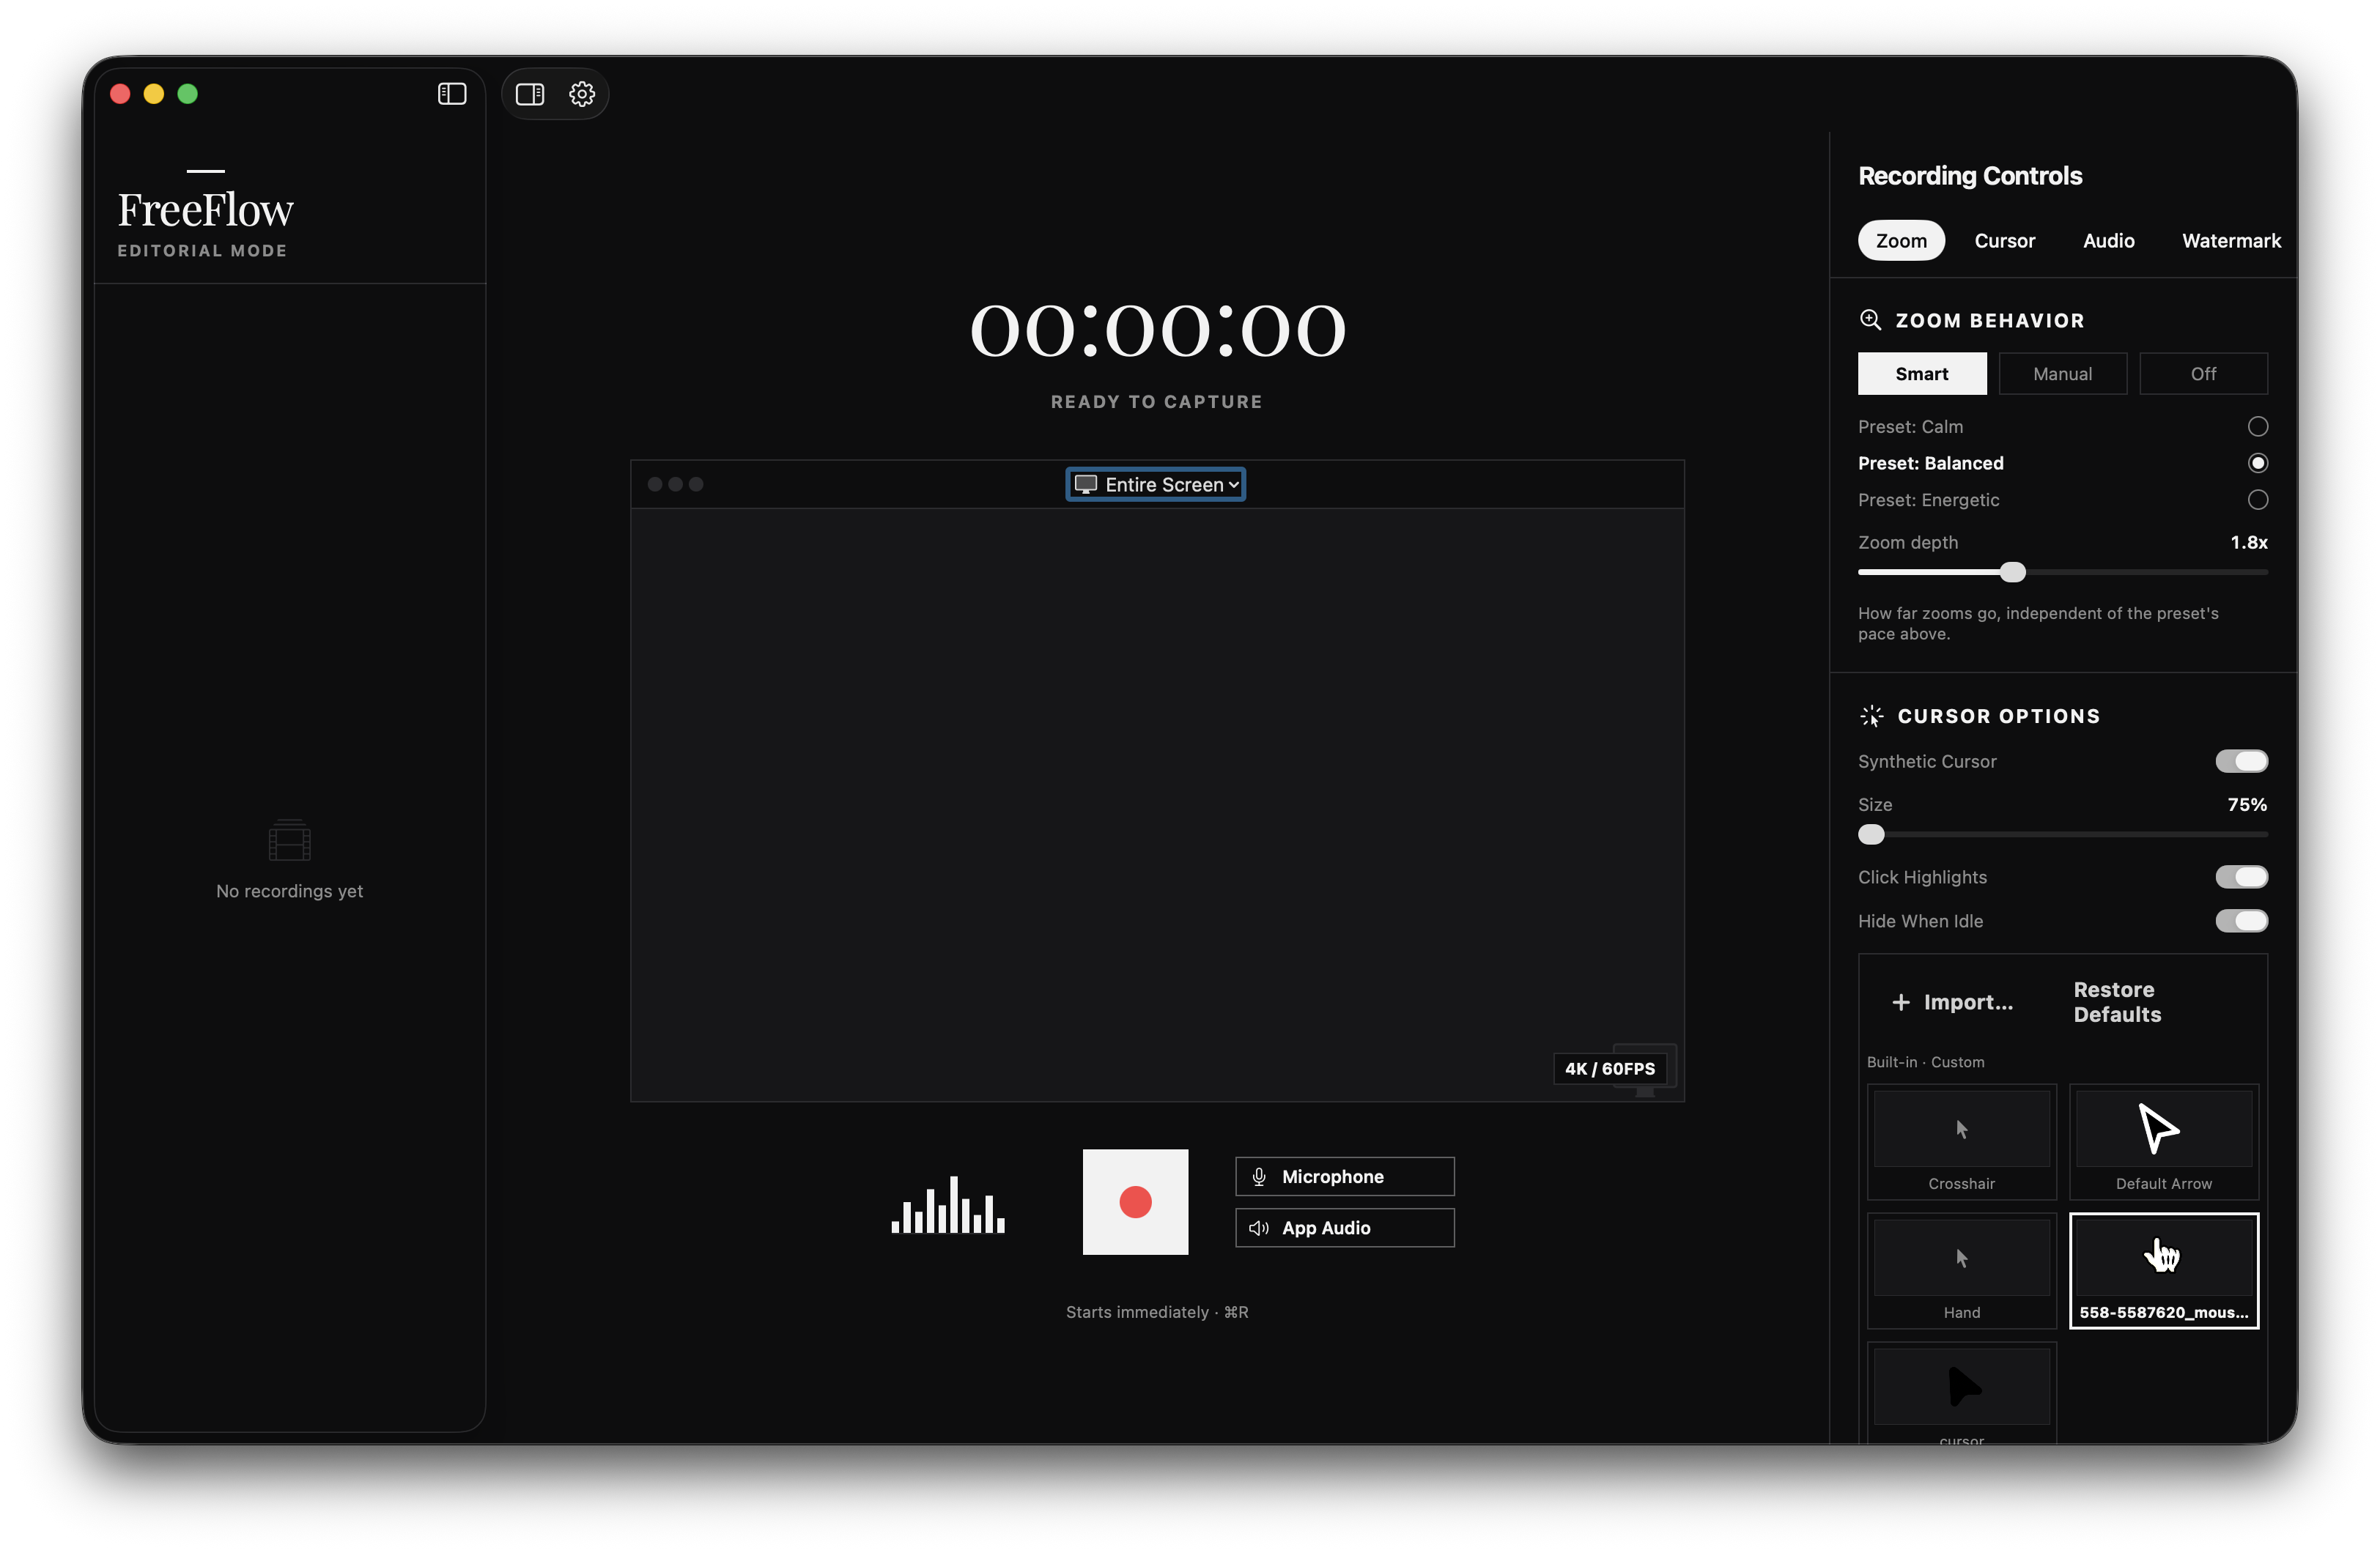
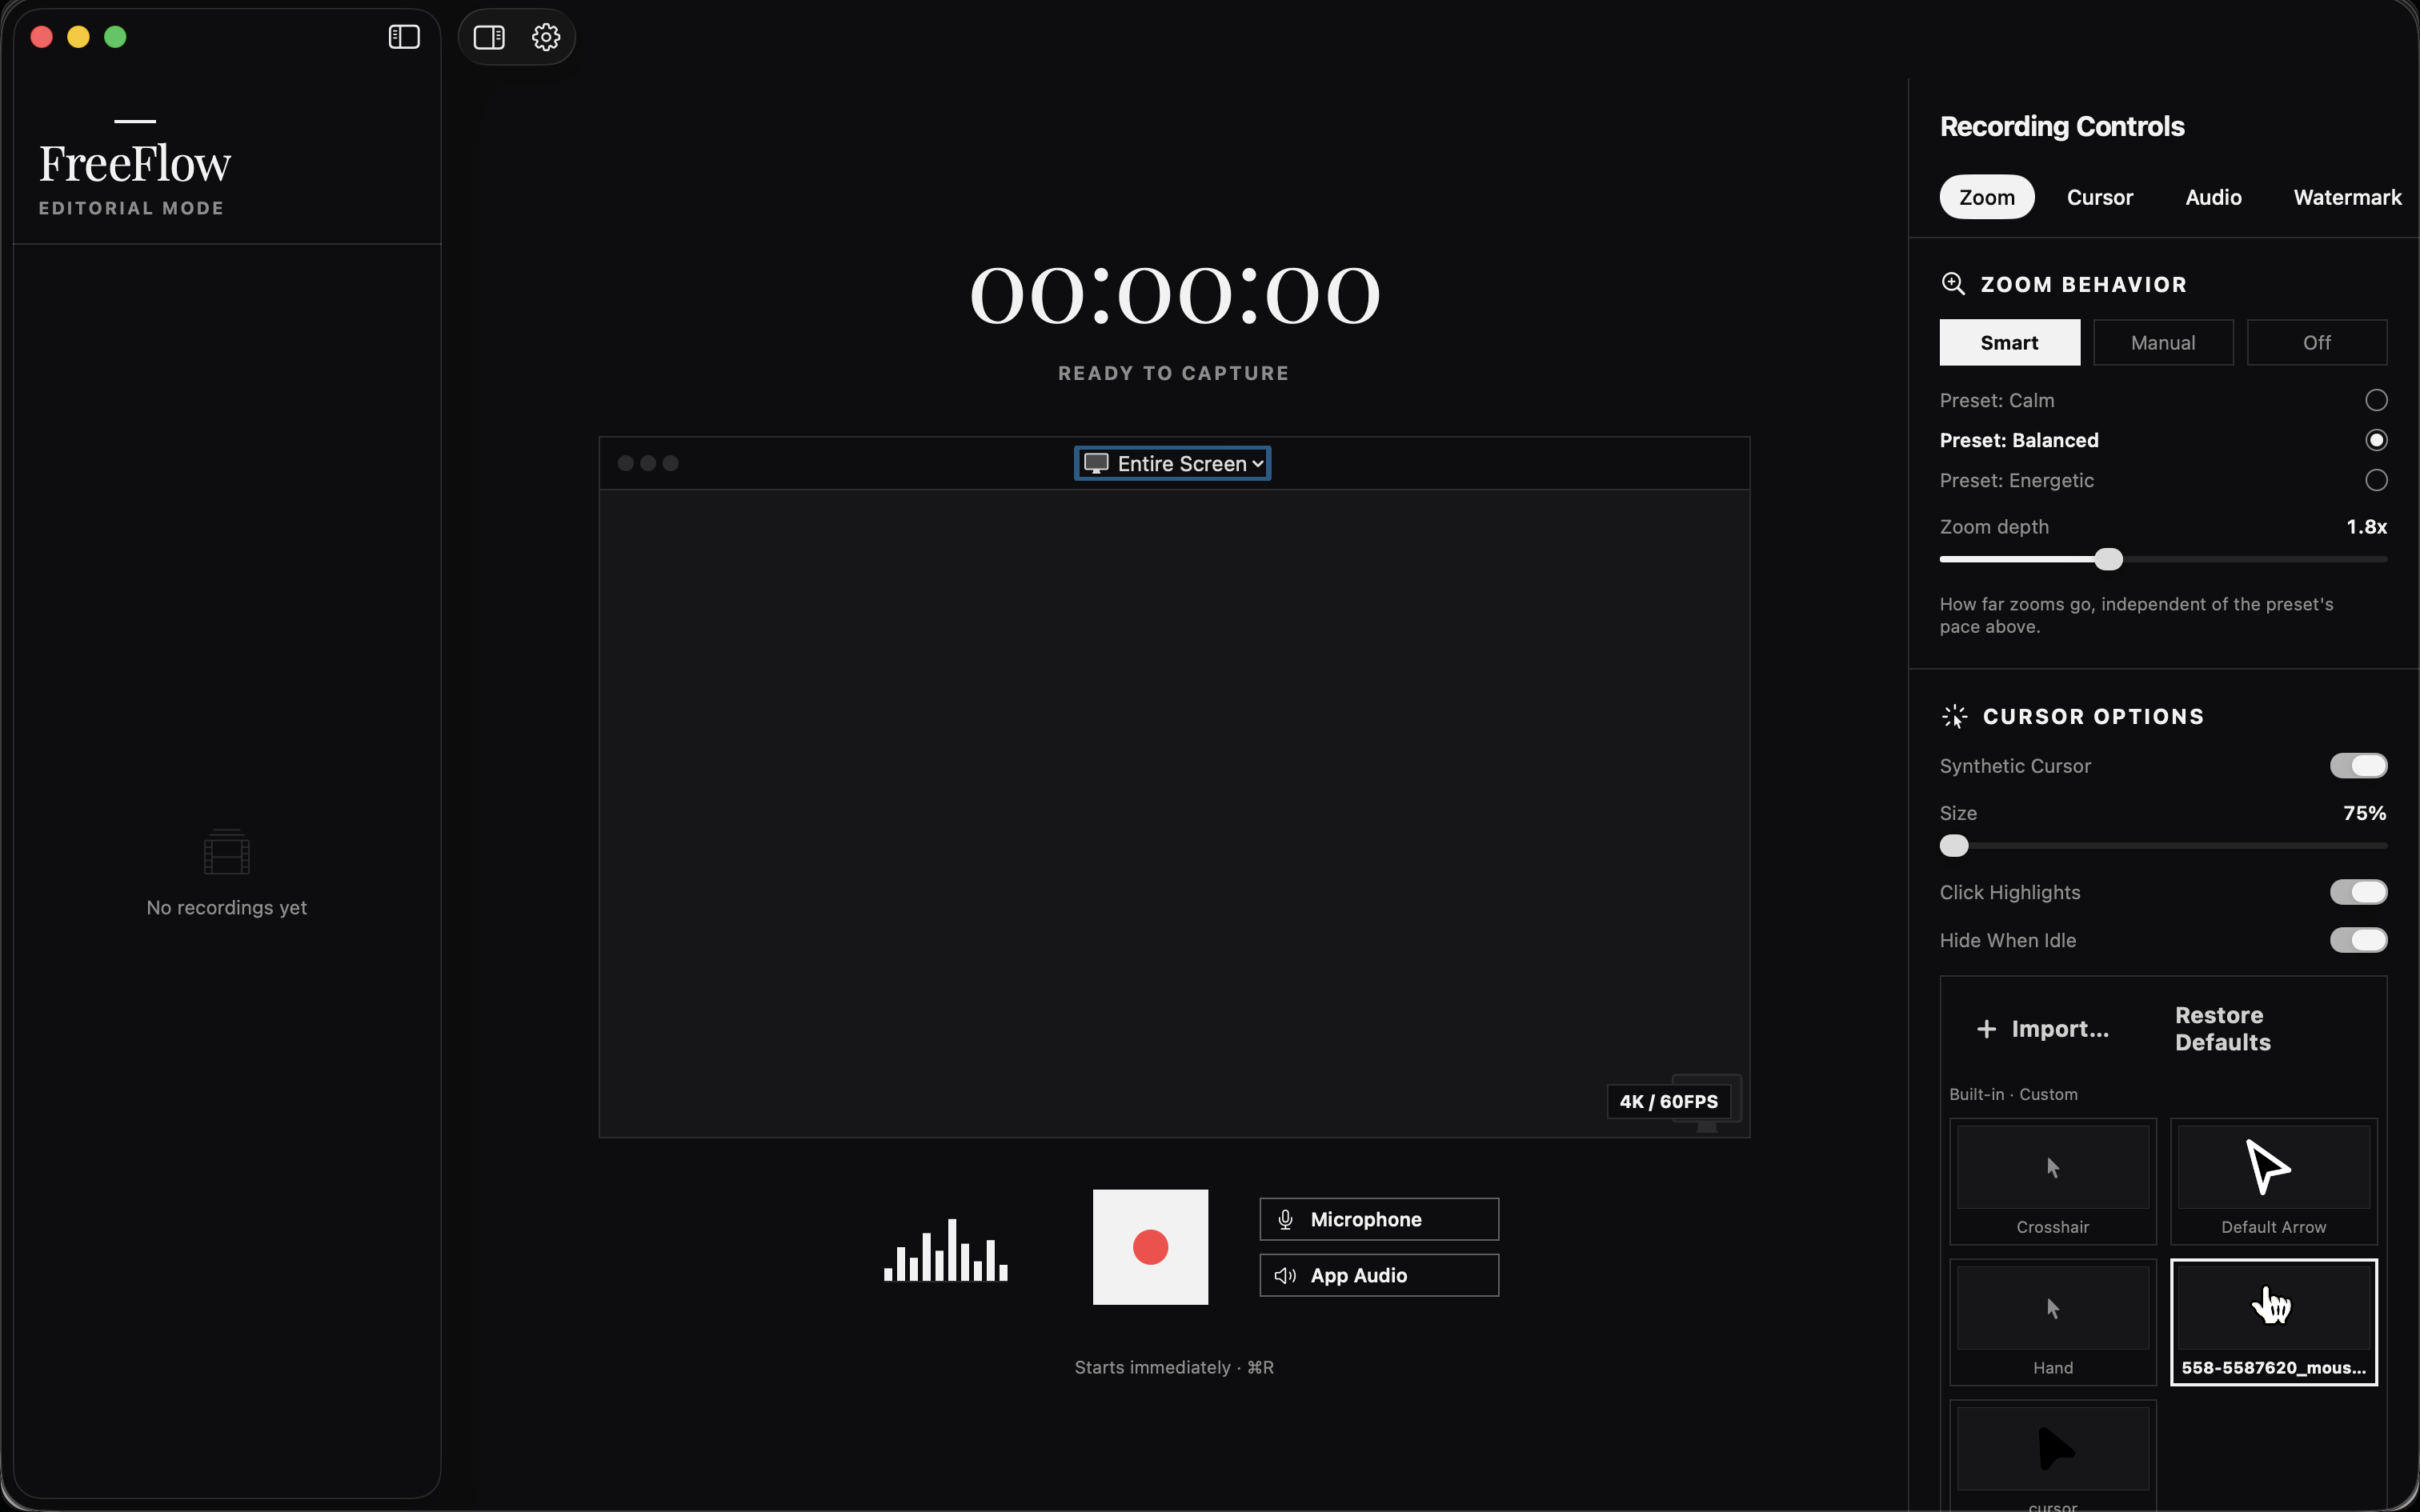
polish: scroll-linked CurvedLoop marquee, cleaner Home dividers and project imagery

diff --git a/src/components/ui/CurvedLoop.tsx b/src/components/ui/CurvedLoop.tsx
@@ -65,22 +65,47 @@ export default function CurvedLoop({
     // ponytail: WCAG 2.3.3, don't force continuous motion on users who opted out of it
     const reduceMotion = window.matchMedia("(prefers-reduced-motion: reduce)").matches;
     if (reduceMotion) return;
+
+    let lastScrollY = window.scrollY;
+    let targetOffset = parseFloat(textPathRef.current?.getAttribute("startOffset") || "0");
+    let currentRenderedOffset = targetOffset;
     let frame = 0;
+
     const step = () => {
       if (!dragRef.current && textPathRef.current) {
-        const delta = dirRef.current === "right" ? speed : -speed;
-        const currentOffset = parseFloat(textPathRef.current.getAttribute("startOffset") || "0");
-        let newOffset = currentOffset + delta;
+        const scrollY = window.scrollY;
+        const delta = scrollY - lastScrollY;
+        lastScrollY = scrollY;
+
+        // Add scroll delta to the target offset
+        const multiplier = dirRef.current === "right" ? speed * 0.8 : -speed * 0.8;
+        targetOffset += delta * multiplier;
+
+        // Smoothly interpolate current offset towards target offset (lerp)
+        currentRenderedOffset += (targetOffset - currentRenderedOffset) * 0.15; // 0.15 is the smoothness factor
 
         const wrapPoint = spacing;
-        if (newOffset <= -wrapPoint) newOffset += wrapPoint;
-        if (newOffset > 0) newOffset -= wrapPoint;
+        // Keep target and current within bounds to prevent precision loss over time
+        if (targetOffset <= -wrapPoint) {
+          targetOffset += wrapPoint;
+          currentRenderedOffset += wrapPoint;
+        }
+        if (targetOffset > 0) {
+          targetOffset -= wrapPoint;
+          currentRenderedOffset -= wrapPoint;
+        }
 
-        textPathRef.current.setAttribute("startOffset", newOffset + "px");
-        setOffset(newOffset);
+        textPathRef.current.setAttribute("startOffset", currentRenderedOffset + "px");
+      } else if (dragRef.current && textPathRef.current) {
+        // If dragging, instantly sync the target to the drag position
+        targetOffset = parseFloat(textPathRef.current.getAttribute("startOffset") || "0");
+        currentRenderedOffset = targetOffset;
+        lastScrollY = window.scrollY;
       }
+      
       frame = requestAnimationFrame(step);
     };
+
     frame = requestAnimationFrame(step);
     return () => cancelAnimationFrame(frame);
   }, [spacing, speed, ready]);

diff --git a/src/app/page.tsx b/src/app/page.tsx
@@ -42,7 +42,7 @@ export default function Home() {
       </section>
 
       {/* Curved Loop Divider */}
-      <section className="overflow-hidden border-t border-border py-12 md:py-16">
+      <section className="overflow-hidden py-12 md:py-16">
         <CurvedLoop
           marqueeText="Building What Matters ✦ Timeless ✦ Intentional ✦ Exceptional ✦"
           curveAmount={80}
@@ -51,7 +51,7 @@ export default function Home() {
       </section>
 
       {/* Selected Works Section */}
-      <section className="px-4 md:px-20 py-24 md:py-32 border-t border-border">
+      <section className="px-4 md:px-20 py-24 md:py-32">
         <div className="max-w-[1200px] mx-auto flex flex-col gap-24">
           <div className="flex flex-col md:flex-row md:items-end justify-between gap-8">
             <Typography variant="display" className="text-5xl md:text-6xl">
@@ -69,15 +69,13 @@ export default function Home() {
                 className={`relative group flex flex-col gap-8 rounded-[2rem] overflow-hidden ${project.theme}`}
               >
                 {/* Project Image */}
-                <div className="relative w-full aspect-[4/3] md:aspect-[16/9] p-4 md:p-12">
-                  <div className="relative w-full h-full overflow-hidden rounded-xl">
-                    <Image
-                      src={project.image}
-                      alt={project.title}
-                      fill
-                      className={`object-cover transition-transform duration-700 group-hover:scale-105 ${project.id === 'core-defenses' ? 'object-top' : 'object-center'}`}
-                    />
-                  </div>
+                <div className="relative w-full aspect-[4/3] md:aspect-[16/9]">
+                  <Image
+                    src={project.image}
+                    alt={project.title}
+                    fill
+                    className={`object-cover transition-transform duration-700 ${project.id === 'core-defenses' ? 'object-top group-hover:scale-105' : 'object-center mix-blend-darken group-hover:scale-105'}`}
+                  />
                 </div>
 
                 {/* Project Info Panel */}